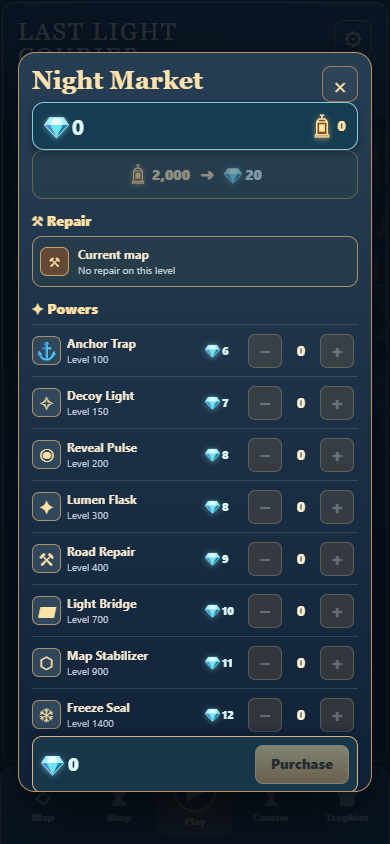
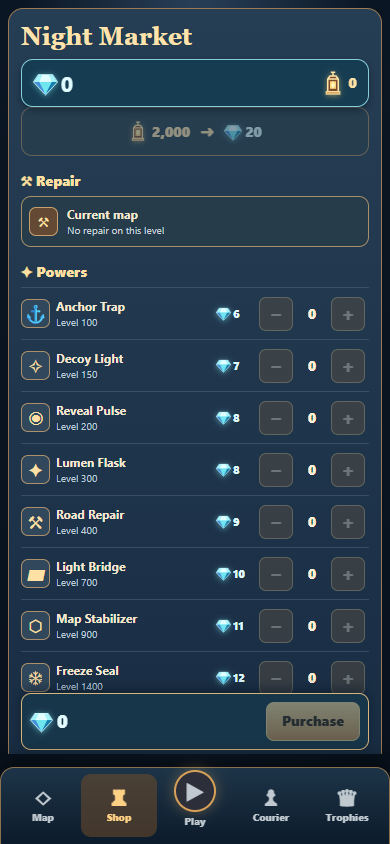
Make shop a dedicated tab screen

diff --git a/game/shell.js b/game/shell.js
@@ -12,6 +12,11 @@
   overlay.id = 'integratedOverlay';
   overlay.hidden = true;
   document.body.append(overlay);
+  const shopScreen=document.createElement('section');
+  shopScreen.id='shopScreen';
+  shopScreen.className='shopPage gemShopPanel';
+  shopScreen.setAttribute('aria-label','Night Market');
+  document.querySelector('.side').append(shopScreen);
   const playScreen = document.getElementById('playScreen');
   const home = document.createElement('section');
   home.id = 'storybookHome';
@@ -135,14 +140,21 @@
     panel('Trophy Cabinet', `<p>${profile.displayName} · results saved on this device. A linked player account is planned for shared records.</p><div class="stats"><div class="stat"><label>Levels cleared</label><strong>${clear} / 2000</strong></div><div class="stat"><label>Mastered</label><strong>${mastery}</strong></div></div><div class="badge"><strong>First Delivery</strong><p>${clear >= 1 ? 'Earned' : 'Clear your first level'}</p></div><div class="badge"><strong>Ten Roads</strong><p>${clear >= 10 ? 'Earned' : `${10 - clear} unique clears to go`}</p></div><div class="badge"><strong>Chapter Lantern</strong><p>${Math.floor(clear / 10)} sets of ten clears recorded. A chapter-specific trophy rule needs review.</p></div><p class="note">Trophy rewards and shared leaderboards are not active in this offline build.</p>`);
   };
   const openShop = () => {
+    close();
     const s = getSave(),level=window.__campaign.getCurrentLevel(),repair=level?.repair,repaired=!!s.repairs?.[level?.n],repairCost=repair?gems.repairPrice(repair.cost):0;
     const repairCard=repair?`<div class="marketRepair"><span class="marketRepairIcon" aria-hidden="true">⚒</span><span><b>${repair.name}</b><small>${repaired?'✓ Repaired':repair.effect==='open'?'Marked tile · repair on map':'Level '+level.n}</small></span><strong class="gemAmount">${gemAmount(repairCost)}</strong><button type="button" ${repaired?'disabled':repair.effect==='open'?'data-shop-repair-map':'data-shop-repair'}>${repaired?'✓':repair.effect==='open'?'Map':'Repair'}</button></div>`:'<div class="marketRepair empty"><span class="marketRepairIcon" aria-hidden="true">⚒</span><span><b>Current map</b><small>No repair on this level</small></span></div>';
-    panel('Night Market', `<div class="shopWallet"><strong class="gemAmount" aria-label="${s.gems} gems">${gemAmount(s.gems)}</strong><span class="shopPoints" aria-label="${s.wallet} earned points">${pointAmount(s.wallet)}</span></div><button type="button" class="shopExchange" data-exchange-gems ${s.wallet<2000?'disabled':''} aria-label="Exchange 2,000 points for 20 gems"><span class="pointAmount">${pointAmount(2000)}</span><span aria-hidden="true">➜</span><strong class="gemAmount">${gemAmount(20)}</strong></button><h3>⚒ Repair</h3>${repairCard}<h3>✦ Powers</h3><div id="marketPowerSlot"></div><h3>${gems.icon} Gems</h3><div class="gemPacks">${gems.packs.map((pack,i)=>`<button type="button" class="gemPack gemPack${i}" data-gem-pack="${pack.id}" aria-label="Preview ${pack.amount} gems for ${pack.usd}"><span class="packArt" aria-hidden="true">${gems.icon.repeat(i+1)}</span><strong>${pack.amount.toLocaleString()}</strong><b>${pack.usd}</b></button>`).join('')}</div><p class="shopNote">Preview prices · Checkout unavailable</p>`);
-    overlay.querySelector('.integratedPanel').classList.add('gemShopPanel');
-    overlay.querySelector('#marketPowerSlot').append(powerShop);
+    shopScreen.innerHTML=`<h2>Night Market</h2><div class="shopWallet"><strong class="gemAmount" aria-label="${s.gems} gems">${gemAmount(s.gems)}</strong><span class="shopPoints" aria-label="${s.wallet} earned points">${pointAmount(s.wallet)}</span></div><button type="button" class="shopExchange" data-exchange-gems ${s.wallet<2000?'disabled':''} aria-label="Exchange 2,000 points for 20 gems"><span class="pointAmount">${pointAmount(2000)}</span><span aria-hidden="true">➜</span><strong class="gemAmount">${gemAmount(20)}</strong></button><h3>⚒ Repair</h3>${repairCard}<h3>✦ Powers</h3><div id="marketPowerSlot"></div><h3>${gems.icon} Gems</h3><div class="gemPacks">${gems.packs.map((pack,i)=>`<button type="button" class="gemPack gemPack${i}" data-gem-pack="${pack.id}" aria-label="Preview ${pack.amount} gems for ${pack.usd}"><span class="packArt" aria-hidden="true">${gems.icon.repeat(i+1)}</span><strong>${pack.amount.toLocaleString()}</strong><b>${pack.usd}</b></button>`).join('')}</div><p class="shopNote">Preview prices · Checkout unavailable</p>`;
+    shopScreen.querySelector('#marketPowerSlot').append(powerShop);
     powerShop.querySelector('details').open=true;
+    document.body.dataset.screen='shop';setActive('shop');
   };
-  window.addEventListener('llc:gem-balance-change',()=>{if(overlay.querySelector('.gemShopPanel'))openShop()});
+  window.addEventListener('llc:gem-balance-change',()=>{if(document.body.dataset.screen==='shop')openShop()});
+  shopScreen.addEventListener('click',e=>{
+    if(e.target.closest('[data-exchange-gems]')){if(getSave().wallet<2000)return;panel('Exchange?',`<div class="exchangePreview"><strong class="pointAmount" aria-label="2,000 earned points">${pointAmount(2000)}</strong><span aria-hidden="true">➜</span><strong class="gemAmount" aria-label="20 gems">${gemAmount(20)}</strong></div><p>Use gems for repairs and powers.</p><div class="repairActions"><button type="button" data-exchange-cancel>Cancel</button><button type="button" data-exchange-confirm>Exchange</button></div>`);return}
+    if(e.target.closest('[data-shop-repair]')){repairFromShop=true;confirmRepair();return}
+    if(e.target.closest('[data-shop-repair-map]')){navigate('play');enterBoard();return}
+    if(e.target.closest('[data-gem-pack]')){const note=shopScreen.querySelector('.shopNote');note.textContent='Checkout unavailable in this browser build';note.scrollIntoView({block:'nearest',behavior:'smooth'})}
+  });
   const openCourier = () => {
     panel('Choose Courier', `<div class="appearanceStage"><div class="appearanceHero">${outfit()}</div><div class="appearanceSelected"><strong>${baseNames[selectedCourier]}</strong><span>${looks[selectedLook]}</span></div></div><h3>Courier <small>${selectedCourier+1} / 18</small></h3><div class="appearanceGrid courierGrid">${baseNames.map((name,i) => `<button type="button" data-courier="${i}" class="${i===selectedCourier?'selected':''}" aria-label="Choose ${name}" title="${name}"><img src="${image(i)}" alt=""><span>${name.split(' ')[0]}</span></button>`).join('')}</div><h3>Wardrobe <small>${looks[selectedLook]}</small></h3><div class="appearanceGrid lookGrid">${looks.map((name,i) => `<button type="button" data-look="${i}" class="${i===selectedLook?'selected':''}" aria-label="Choose ${name}" title="${name}"><span class="lookSwatch look${i}">✦</span><span>${name}</span></button>`).join('')}</div><p class="appearanceNote">Courier and outfit selections save on this device. Shadows now follow the map region.</p>`);
     overlay.querySelector('.integratedPanel').classList.add('courierPanel');
@@ -166,15 +178,8 @@
     if(e.target.closest('[data-open-guide]')){close();enterBoard();document.getElementById('help').click();return}
     if(e.target.closest('[data-repair-cancel]')){if(repairFromShop){repairFromShop=false;openShop()}else close();return}
     if(e.target.closest('[data-repair-approve]')){const origin=repairCallout.querySelector('[data-repair-open]');window.__campaign.buyRepairConfirmed(origin);if(repairFromShop){repairFromShop=false;openShop()}else close();renderRepairCallout();return}
-    if(e.target.closest('[data-exchange-gems]')){const s=getSave();if(s.wallet<2000)return;panel('Exchange?',`<div class="exchangePreview"><strong class="pointAmount" aria-label="2,000 earned points">${pointAmount(2000)}</strong><span aria-hidden="true">➜</span><strong class="gemAmount" aria-label="20 gems">${gemAmount(20)}</strong></div><p>Use gems for repairs and powers.</p><div class="repairActions"><button type="button" data-exchange-cancel>Cancel</button><button type="button" data-exchange-confirm>Exchange</button></div>`);return}
     if(e.target.closest('[data-exchange-cancel]')){openShop();return}
     if(e.target.closest('[data-exchange-confirm]')){window.__campaign.exchangePointsForGems();openShop();return}
-    if(e.target.closest('[data-shop-repair]')){repairFromShop=true;confirmRepair();return}
-    if(e.target.closest('[data-shop-repair-map]')){close();enterBoard();return}
-    const packButton=e.target.closest('[data-gem-pack]');
-    if(packButton){const note=overlay.querySelector('.shopNote');if(note){note.textContent='Checkout unavailable in this browser build';note.scrollIntoView({block:'nearest',behavior:'smooth'})}return}
-    if(e.target.closest('[data-shop-back]')){openShop();return}
-    if (e.target.closest('[data-action="repairs"]')) { close(); legacyNav.querySelector('[data-screen="repairs"]').click(); return; }
     const b = e.target.closest('[data-courier]');
     if (b) { selectedCourier = Number(b.dataset.courier); saveAppearance(); openCourier(); }
     const look = e.target.closest('[data-look]');

diff --git a/game/shell.css b/game/shell.css
@@ -369,3 +369,12 @@ body.testerBuild .storybookWordmark::after{content:'TESTER';display:block;margin
 .gemShopPanel #powerShop details>summary{display:none}
 .gemShopPanel #powerShop .powerGemBalance{display:none}
 .gemShopPanel #powerShop .powerCartFooter{bottom:-13px}
+#shopScreen{display:none}
+body[data-screen="shop"] #shopScreen{display:block}
+.shopPage{width:100%;max-height:none;min-height:100%;overflow:visible;margin:0;padding:13px 12px 25px;border:1px solid #9a7954;border-radius:15px;background:linear-gradient(#263e54,#102238);color:#f6e8d0}
+.shopPage h2{margin:0 0 9px;font:700 25px Georgia,serif;color:#ffe2ac}
+.shopPage h3{margin-top:15px}
+.shopPage .shopWallet{top:0}
+.shopPage #powerShop .powerCartFooter{bottom:4px}
+body[data-screen="shop"] .side{display:block;overflow-y:auto;overscroll-behavior:contain}
+body[data-screen="shop"] .game{display:none}
